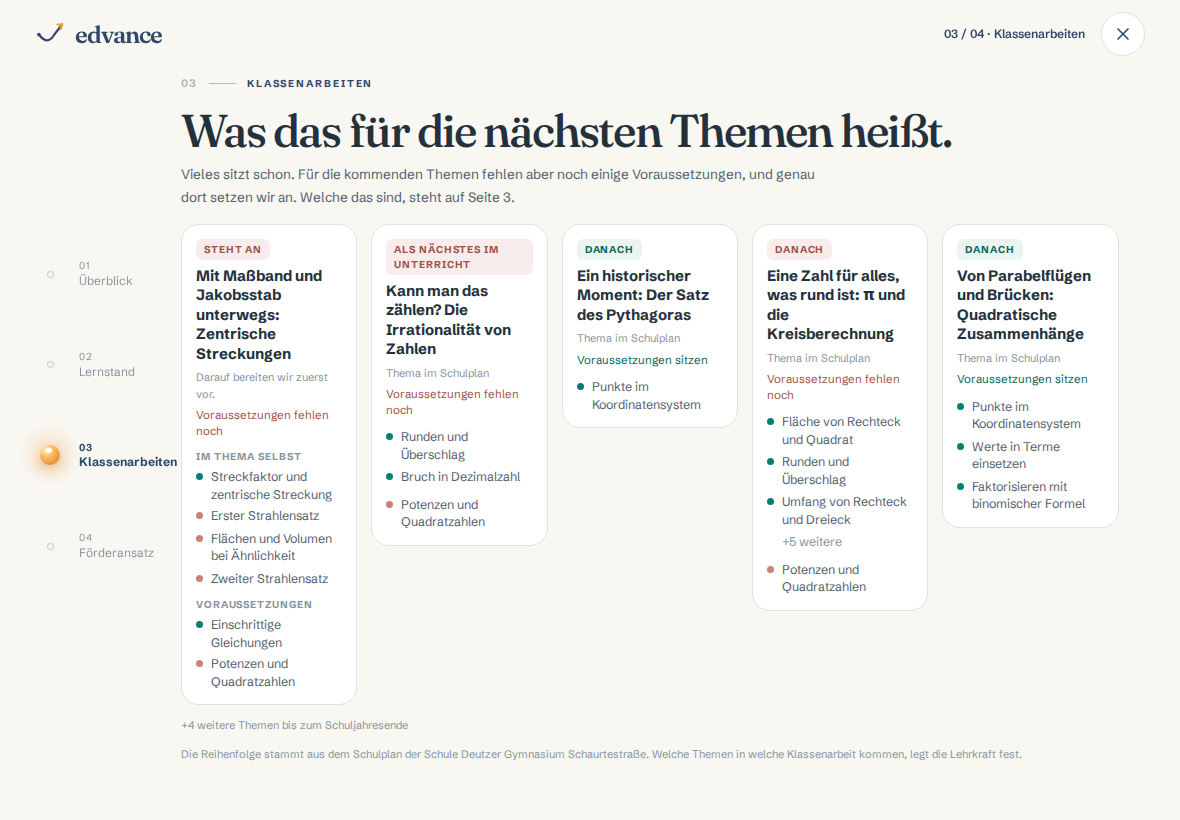
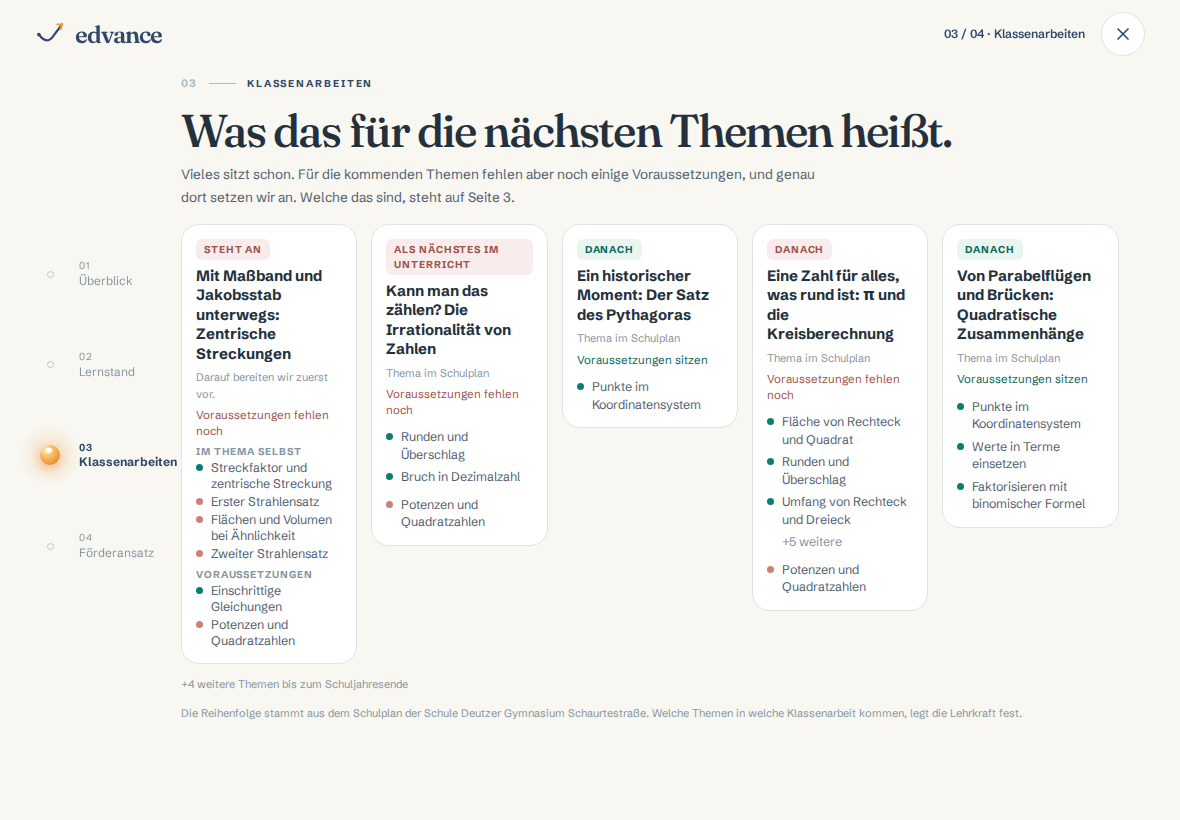
fix(praesentation): Karte „steht an“ kompakter, passt auch bei 1180×740 und 744×1060
Je Gruppe eine Liste (erst sicher, dann Übungsbedarf, Punkt je Stand) und
knappere Zeilen; vorher lief Station 03 bei Ida auf niedrigen Bildschirmen um
bis zu 54 px über.

Changed region(s): [[0.1525, 0.5488, 0.8542, 0.9451]]

diff --git a/src/components/edvance/praesentation/StationKlassenarbeiten.tsx b/src/components/edvance/praesentation/StationKlassenarbeiten.tsx
@@ -33,11 +33,10 @@ function Liste({ art, eintraege }: { art: 'sitzt' | 'fehlt'; eintraege: EbZuordn
   )
 }
 
-const zuordnung = (b: EbBereich): EbZuordnung => ({ label: b.label, auch: [] })
-
 /**
  * V4-S: die anstehende Arbeit — je Gruppe eine kleine Unterzeile („Im Thema selbst“, „Voraussetzungen“), darunter
- * erst was sitzt, dann was fehlt, wie die Listen der anderen Karten. Eine leere Gruppe entfällt.
+ * eine Liste: erst was sitzt, dann was fehlt (Punkt je Stand, wie in den anderen Karten), je Stand höchstens drei,
+ * dann „+n weitere“. Eine Liste je Gruppe hält die Karte niedrig genug für das Querformat. Leere Gruppe entfällt.
  */
 function Anstehend({ a }: { a: EbAnstehend }): JSX.Element {
   const { t: tb } = useTranslation('elternbericht')
@@ -45,13 +44,26 @@ function Anstehend({ a }: { a: EbAnstehend }): JSX.Element {
     { key: 'imThema', g: a.imThema },
     { key: 'voraus', g: a.voraus },
   ].filter(({ g }) => g.sitzt.length + g.fehlt.length > 0)
+  const teil = (art: 'sitzt' | 'fehlt', liste: EbBereich[]): JSX.Element[] => {
+    const rest = liste.length - JE_LISTE
+    return [
+      ...liste.slice(0, JE_LISTE).map((b) => (
+        <li key={b.skillKey} className={`tp-ka-punkt-${art}`}>
+          {b.label}
+        </li>
+      )),
+      ...(rest > 0 ? [<li key={`${art}-rest`} className="tp-ka-weitere">{tb('s1.blick.weitere', { count: rest })}</li>] : []),
+    ]
+  }
   return (
     <>
       {gruppen.map(({ key, g }) => (
         <div key={key} className="tp-ka-gruppe" data-testid={`tp-ka-gruppe-${key}`}>
           <span className="tp-ka-gruppe-titel">{tb(`v4.anstehend.${key}`)}</span>
-          <Liste art="sitzt" eintraege={g.sitzt.map(zuordnung)} />
-          <Liste art="fehlt" eintraege={g.fehlt.map(zuordnung)} />
+          <ul>
+            {teil('sitzt', g.sitzt)}
+            {teil('fehlt', g.fehlt)}
+          </ul>
         </div>
       ))}
     </>

diff --git a/src/components/edvance/praesentation/Anstehend.test.tsx b/src/components/edvance/praesentation/Anstehend.test.tsx
@@ -36,12 +36,12 @@ describe('Station 03, Karte „steht an“ (Ida)', () => {
     const vo = within(k).getByTestId('tp-ka-gruppe-voraus')
     expect(im.querySelector('.tp-ka-gruppe-titel')).toHaveTextContent(de.v4.anstehend.imThema)
     expect(vo.querySelector('.tp-ka-gruppe-titel')).toHaveTextContent(de.v4.anstehend.voraus)
-    expect(texte(im, '.tp-ka-liste-sitzt li')).toEqual(['Streckfaktor und zentrische Streckung'])
-    expect(texte(im, '.tp-ka-liste-fehlt li')).toEqual(['Erster Strahlensatz', 'Flächen und Volumen bei Ähnlichkeit', 'Zweiter Strahlensatz'])
-    expect(texte(vo, '.tp-ka-liste-sitzt li')).toEqual(['Einschrittige Gleichungen'])
-    expect(texte(vo, '.tp-ka-liste-fehlt li')).toEqual(['Potenzen und Quadratzahlen'])
+    expect(texte(im, 'li.tp-ka-punkt-sitzt')).toEqual(['Streckfaktor und zentrische Streckung'])
+    expect(texte(im, 'li.tp-ka-punkt-fehlt')).toEqual(['Erster Strahlensatz', 'Flächen und Volumen bei Ähnlichkeit', 'Zweiter Strahlensatz'])
+    expect(texte(vo, 'li.tp-ka-punkt-sitzt')).toEqual(['Einschrittige Gleichungen'])
+    expect(texte(vo, 'li.tp-ka-punkt-fehlt')).toEqual(['Potenzen und Quadratzahlen'])
     // sitzt vor fehlt in jeder Gruppe
-    for (const g of [im, vo]) expect(g.querySelector('ul')!.className).toBe('tp-ka-liste-sitzt')
+    for (const g of [im, vo]) expect(texte(g, 'li')).toEqual([...texte(g, 'li.tp-ka-punkt-sitzt'), ...texte(g, 'li.tp-ka-punkt-fehlt')])
   })
 
   it('Batu (geschrieben): Karte des aktuellen Themas wie vorher, ohne Gruppen und Signal', () => {

diff --git a/src/styles/praesentation/station-ka.css b/src/styles/praesentation/station-ka.css
@@ -137,11 +137,10 @@
   display: none;
 }
 
-/* V4-S: Gruppen der anstehenden Arbeit („Im Thema selbst“, „Voraussetzungen“). */
+/* V4-S: Gruppen der anstehenden Arbeit („Im Thema selbst“, „Voraussetzungen“), je eine knappe Liste. */
 .tp .tp-ka-gruppe {
   display: flex;
   flex-direction: column;
-  margin-top: 4px;
 }
 
 .tp .tp-ka-gruppe-titel {
@@ -149,7 +148,25 @@
   font-size: 10px;
   font-weight: 700;
   letter-spacing: .09em;
+  line-height: 1.3;
   text-transform: uppercase;
+}
+
+.tp .tp-ka-karte .tp-ka-gruppe ul {
+  gap: 2px;
+  margin-top: 2px;
+}
+
+.tp .tp-ka-karte .tp-ka-gruppe li {
+  line-height: 1.28;
+}
+
+.tp .tp-ka-karte .tp-ka-gruppe li::before {
+  top: 4px;
+}
+
+.tp .tp-ka-karte li.tp-ka-punkt-fehlt::before {
+  background: var(--color-eb-uebung);
 }
 
 .tp .tp-ka-offen {
